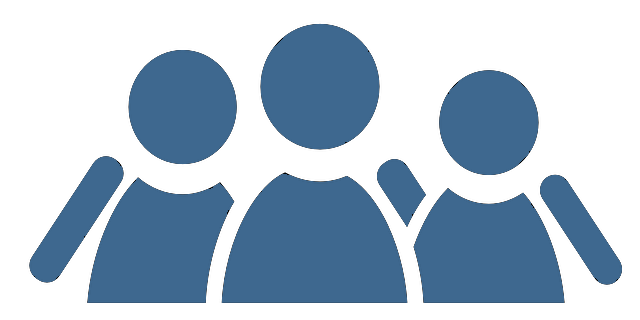
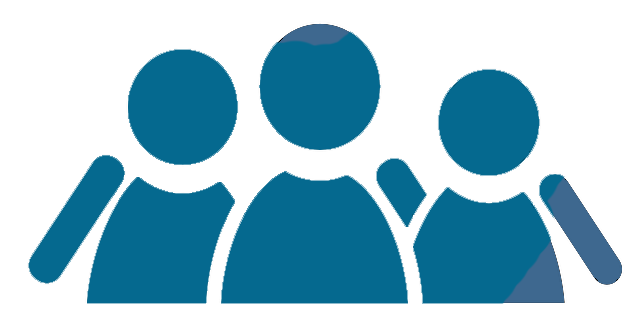
correccion de todas las weas de franco

diff --git a/index.html b/index.html
@@ -44,53 +44,53 @@
 
   <ol class="carousel-indicators">
     
-    <li data-target="#carousel-example-generic" data-slide-to="0"></li>
+    <li data-target="#carousel-example-generic" data-slide-to="0"  class="active"></li>
     <li data-target="#carousel-example-generic" data-slide-to="1"></li>
     <li data-target="#carousel-example-generic" data-slide-to="2"></li>
-    <li data-target="#carousel-example-generic" data-slide-to="3"  class="active"></li>
+    <li data-target="#carousel-example-generic" data-slide-to="3"></li>
   </ol>
 
   <!-- Wrapper for slides -->
   
   <div class="carousel-inner" role="listbox">
 
-    <div class="item">
-      <img src="./assets/images/bg1.jpg" alt="...">
+    <div class="item active">
+      <img src="./assets/images/bg3.jpg" alt="...">
       <div class="carousel-caption">
-        <h3 class="home-words">Desarrollo de aplicaciones de alta complejidad, donde la opinión de los usuarios es una parte fundamental de la solución.</h3>
+        <!--<h3 class="home-words">Desarrollo de aplicaciones de alta complejidad, donde la opinión de los usuarios es una parte fundamental de la solución.</h3>-->
+      </div>
+    </div>
+    <div class="item">
+      <img src="./assets/images/bg4.jpg" alt="...">
+      <div class="carousel-caption">
+        <!--<h3 class="home-words">Desarrollo de aplicaciones de alta complejidad, donde la opinión de los usuarios es una parte fundamental de la solución.</h3>-->
       </div>
     </div>
     <div class="item">
       <img src="./assets/images/bg2.jpg" alt="...">
       <div class="carousel-caption">
-        <h3 class="home-words">Desarrollo de aplicaciones de alta complejidad, donde la opinión de los usuarios es una parte fundamental de la solución.</h3>
+        <!--<h3 class="home-words">Desarrollo de aplicaciones de alta complejidad, donde la opinión de los usuarios es una parte fundamental de la solución.</h3>-->
       </div>
     </div>
     <div class="item">
-      <img src="./assets/images/bg3.jpg" alt="...">
+      <img src="./assets/images/bg1.jpg" alt="...">
       <div class="carousel-caption">
-        <h3 class="home-words">Desarrollo de aplicaciones de alta complejidad, donde la opinión de los usuarios es una parte fundamental de la solución.</h3>
-      </div>
-    </div>
-    <div class="item active">
-      <img src="./assets/images/bg4.jpg" alt="...">
-      <div class="carousel-caption">
-        <h3 class="home-words">Desarrollo de aplicaciones de alta complejidad, donde la opinión de los usuarios es una parte fundamental de la solución.</h3>
+        <!--<h3 class="home-words">Desarrollo de aplicaciones de alta complejidad, donde la opinión de los usuarios es una parte fundamental de la solución.</h3>-->
       </div>
     </div>
   </div>
 
 </div>
 
-    <!-- <div class="slider_bg">
+    <div class="slider_bg">
       <div class="wrapper">
         <div class="slider" id="home">
           <div class="slider_text">
             <h2>Somos los más pulentos</h2>
-            <h3>Todo lo hacimo terrible de bien</h3>
+            <h3>Todo lo hacemos terrible de bien</h3>
           </div>
         </div>
-      </div> -->
+      </div>
 
     <!-- <div class="footer navbar navbar-fixed-bottom" style="display:none">
       <div class="container">
@@ -103,7 +103,7 @@
 
 <script type="text/javascript">
     $('.carousel').carousel({
-  interval: 3000
+  interval: 5000
 })
 </script>
 <script>

diff --git a/assets/stylesheets/style.css b/assets/stylesheets/style.css
@@ -43,13 +43,6 @@ body {font-family: 'Source Sans Pro', sans-serif; /*padding-bottom: 50px;*/}
 .footer > .container {padding-right: 15px;padding-left: 15px; text-align: center;}
 .footer > .container > .text-muted {margin: 20px 0;color:#ffffff;}
 
-/*Home*/
-.slider_bg {background: url('../images/bg4.jpg');background-size: cover;position: absolute;top: 0px;height: 100%;width: 100%;}
-.slider {padding: 4% 6%;}
-.slider_text {text-align:center; margin: 20% 0 16%;}
-.slider_text h2 {font-size: 4em; color:#ffffff; text-transform:uppercase;}
-.slider_text h3{font-size: 2.4em; color: #ffffff; width: 50%; margin: 0 auto;}
-
 /*Products*/
 .product-img{height:120px;}
 
@@ -57,19 +50,26 @@ body {font-family: 'Source Sans Pro', sans-serif; /*padding-bottom: 50px;*/}
 .contact-left{margin-top: 50px;}
 .contact-right{margin-top: 50px;}
 .contact-right img {height:34px; padding:4px;}
-.contact-right label {padding-top: 6px; color:#3e688f;}
+.contact-right label {padding-top: 6px; color:#05698f;}
 textarea {resize: none;}
-.submit-button {color:#fff;background-color:#3e688f;}
-.carousel-indicators li {border: 1px solid #3e688f !important;}
-.carousel-indicators li.active {background-color: #3e688f;}
+.submit-button {color:#fff;background-color:#05698f;}
 /* font */
 h3 {
 	color: #2F6984;
 }
-.home-words{margin-bottom: 60%;}
 
+/*Home*/
 html,body{height:100%;}
+.slider_bg {/*background: url('../images/bg4.jpg');*/background-size: cover;position: absolute;top: 0px;height: 100%;width: 100%;}
+.slider {padding: 4% 6%;}
+.slider_text {text-align:center; margin: 16% 0 16%;}
+.slider_text h2 {font-size: 4em; color:#2F6984; text-transform:uppercase;}
+.slider_text h3{font-size: 2.4em; color: #2F6984; width: 50%; margin: 0 auto;}
+
+.home-words{margin-bottom: 40%;}
 .carousel {padding-top: 30px;}
 .carousel,.item{height:100% !important;}
 .carousel-inner{height:100%;}
+.carousel-indicators li {border: 1px solid #05698f !important;}
+.carousel-indicators li.active {background-color: #05698f;}
 .fill{width:100%;height:100%;background-position:center;background-size:cover;}

diff --git a/about.html b/about.html
@@ -44,14 +44,14 @@
         <div class="col-md-12">
           <div class="row">
             <div class="col-md-4">
-              <img class="product-img" src="assets/images/cloud-img.png" />
-              <h3>Nnodes</h3>
-              <p>Nnodes es una empresa emergente de desarrollo de aplicaciones de alta complejidad, donde la opinión de los usuarios es una parte fundamental de la solución.</p>
-            </div>
-            <div class="col-md-4">
               <img class="product-img" src="assets/images/team-img-blue.png" />
               <h3>Equipo</h3>
               <p>Formada por un equipo de Ingenieros Industriales en Computación e Ingenieros Comerciales, Nnodes está plenamente capacitada para solucionar cualquier inquietud de sus clientes.</p>
+            </div>
+            <div class="col-md-4">
+              <img class="product-img" src="assets/images/N.png" />
+              <h3>Nnodes</h3>
+              <p>Nnodes es una empresa emergente de desarrollo de aplicaciones de alta complejidad, donde la opinión de los usuarios es una parte fundamental de la solución.</p>
             </div>
             <div class="col-md-4">
               <img class="product-img" src="assets/images/tablets-img-blue.png" />
